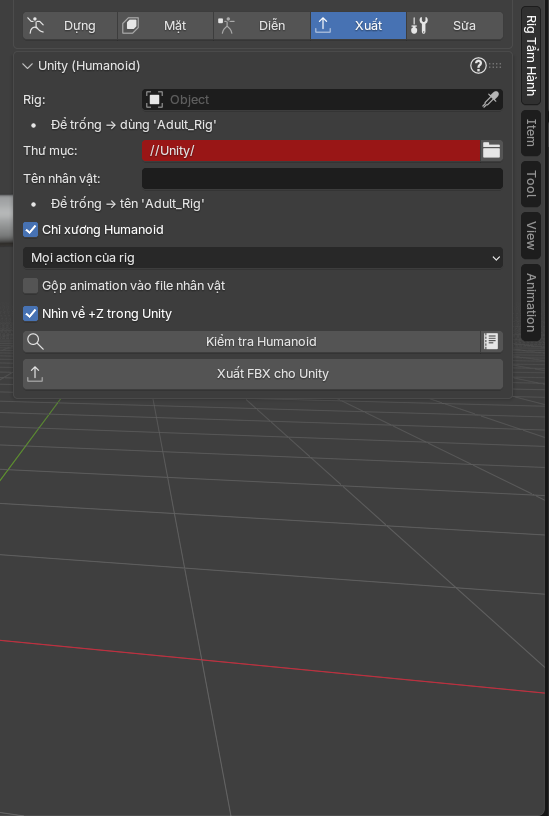
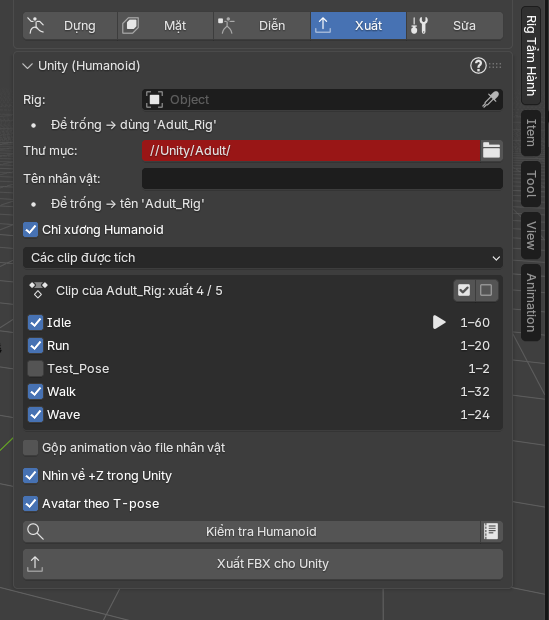
Rig Tẩm Hành 1.27.0: choose which clips go to Unity
The Unity export panel lists every animation clip that has a slot for the
chosen rig (a slot the rig uses, a slot named after it, or a slot whose
channels mostly target its bones), each with a checkbox, frame range and a
marker on the assigned clip, plus tick-all / untick-all. Only ticked clips are
exported, in separate files or combined takes, and the json lists only them.
The choice is stored on each action (Action.srp_unity_export, default on), so
older files export as before. The Humanoid check names skipped clips, and
action slot lookup now prefers the slot the rig itself uses. Adds the
unity_clips test.

diff --git a/unityexport.py b/unityexport.py
@@ -245,16 +245,38 @@ def rig_meshes(arm):
     return skinned, attached
 
 
-def rig_actions(arm):
-    """Action dành cho rig này: phần lớn kênh trỏ vào bone có thật."""
+def rig_clips(arm):
+    """[(action, slot)] -- clip dành cho rig này, đọc theo SLOT của action: slot
+    rig đang / đã dùng, slot trùng tên rig, hoặc slot OBJECT có phần lớn kênh
+    trỏ vào bone có thật của rig. Action chỉ có slot shape key thì bỏ qua."""
     names = {b.name for b in arm.data.bones}
     out = []
     for a in bpy.data.actions:
-        bones = {compat.bone_of(fc.data_path) for fc in compat.action_fcurves(a)}
-        bones.discard(None)
-        if bones and len(bones & names) >= .5 * len(bones):
-            out.append(a)
-    return out
+        hit = None
+        for s in a.slots:
+            if s.target_id_type not in ('OBJECT', 'UNSPECIFIED'):
+                continue
+            users = getattr(s, "users", None)
+            if (users is not None and arm in users()) or s.name_display == arm.name:
+                hit = s
+                break
+            bones = {compat.bone_of(fc.data_path) for fc in compat.action_fcurves(a, s)}
+            bones.discard(None)
+            if hit is None and bones and len(bones & names) >= .5 * len(bones):
+                hit = s
+        if hit is not None:
+            out.append((a, hit))
+    return sorted(out, key=lambda p: p[0].name.lower())
+
+
+def rig_actions(arm):
+    """Action dành cho rig này (xem rig_clips)."""
+    return [a for a, _s in rig_clips(arm)]
+
+
+def picked_actions(arm):
+    """Clip được tích "Xuất" trong danh sách của panel."""
+    return [a for a in rig_actions(arm) if getattr(a, "srp_unity_export", True)]
 
 
 def driven_into(meshes):
@@ -332,14 +354,18 @@ def check(arm):
     for o in attached:
         notes.append("%s gắn vào bone %s -- sẽ skin 100%% vào bone đó" % (o.name, o.parent_bone))
 
-    acts = rig_actions(arm)
+    every = rig_actions(arm)
+    acts = picked_actions(arm)
     for a in acts:
         for fc in compat.action_fcurves(a):
             if fc.data_path.endswith('.scale') and compat.curve_amplitude(fc) > 1e-4:
                 warns.append("%s: có animation scale bone (%s) -- Humanoid bỏ qua scale"
                              % (a.name, compat.bone_of(fc.data_path)))
                 break
-    notes.append("%d action cho rig này: %s" % (len(acts), ", ".join(a.name for a in acts) or "--"))
+    notes.append("%d clip cho rig này, xuất %d: %s" % (len(every), len(acts), ", ".join(a.name for a in acts) or "--"))
+    skip = [a.name for a in every if a not in acts]
+    if skip:
+        notes.append("Bỏ không xuất: " + ", ".join(skip))
     extra = sorted(b.name for b in B if b.use_deform and b.name not in used)
     notes.append("%d bone Humanoid, %d bone thêm (mặt, tai, Palm...) đi theo dạng transform phụ"
                  % (len(m), len(extra)))
@@ -844,7 +870,7 @@ def export(context, arm, folder, name, which='ALL', face_z=True, combine=False,
         raise ValueError("; ".join(errors))
     os.makedirs(folder, exist_ok=True)
     skinned, attached = rig_meshes(arm)
-    acts = rig_actions(arm)
+    acts = picked_actions(arm)
     if which == 'NONE':
         acts = []
     elif which == 'ACTIVE':
@@ -961,7 +987,9 @@ class SRP_UnitySettings(PropertyGroup):
                          description="Để trống thì lấy theo tên rig")
     which: EnumProperty(
         name="Animation",
-        items=(('ALL', "Mọi action của rig", "Mỗi action ra một file <tên>@<action>.fbx"),
+        items=(('ALL', "Các clip được tích",
+                "Chỉ xuất các clip được tích trong danh sách bên dưới -- mỗi clip ra "
+                "một file <tên>@<clip>.fbx (hoặc một take nếu gộp)"),
                ('ACTIVE', "Chỉ action đang gán", ""),
                ('NONE', "Không xuất animation", "Chỉ mô hình + Avatar")),
         default='ALL')
@@ -1073,6 +1101,48 @@ class SRP_OT_unity_export(Operator):
         return {'FINISHED'}
 
 
+class SRP_OT_unity_clips(Operator):
+    """Tích / bỏ tích mọi clip của rig trong danh sách xuất"""
+    bl_idname = "srp.unity_clips"
+    bl_label = "Chọn clip"
+    bl_options = {'REGISTER', 'UNDO'}
+
+    value: BoolProperty(default=True)
+
+    def execute(self, context):
+        arm = _rig(context)
+        if arm is None:
+            return {'CANCELLED'}
+        for a in rig_actions(arm):
+            a.srp_unity_export = self.value
+        return {'FINISHED'}
+
+
+def draw_clips(L, arm):
+    clips = rig_clips(arm)
+    box = L.box()
+    if not clips:
+        box.label(text="Không có clip nào có slot cho %s" % arm.name, icon='INFO')
+        return
+    n = sum(1 for a, _s in clips if a.srp_unity_export)
+    head = box.row(align=True)
+    head.label(text="Clip của %s: xuất %d / %d" % (arm.name, n, len(clips)), icon='ACTION')
+    head.operator("srp.unity_clips", text="", icon='CHECKBOX_HLT').value = True
+    head.operator("srp.unity_clips", text="", icon='CHECKBOX_DEHLT').value = False
+    cur = arm.animation_data.action if arm.animation_data else None
+    col = box.column(align=True)
+    for a, s in clips:
+        row = col.row(align=True)
+        row.prop(a, "srp_unity_export", text=a.name)
+        sub = row.row(align=True)
+        sub.alignment = 'RIGHT'
+        f0, f1 = (int(round(x)) for x in a.frame_range)
+        info = "%d–%d" % (f0, f1)
+        if s.name_display != arm.name:
+            info += " · slot %s" % s.name_display
+        sub.label(text=info, icon='PLAY' if a is cur else 'BLANK1')
+
+
 def draw_unity(L, context):
     st = context.scene.srp_unity
     arm = _rig(context)
@@ -1089,6 +1159,8 @@ def draw_unity(L, context):
         note.label(text="Để trống → tên %r" % default_name(arm), icon='DOT')
     L.prop(st, "only_human")
     L.prop(st, "which", text="")
+    if st.which == 'ALL' and arm is not None:
+        draw_clips(L, arm)
     row = L.row()
     row.enabled = st.which != 'NONE'
     row.prop(st, "combine")
@@ -1104,18 +1176,23 @@ def draw_unity(L, context):
 
 
 CLASSES = (SRP_UnitySettings, SRP_OT_unity_check, SRP_OT_unity_map_edit,
-           SRP_OT_unity_export)
+           SRP_OT_unity_export, SRP_OT_unity_clips)
 
 
 def register_extra():
     bpy.types.Scene.srp_unity = PointerProperty(type=SRP_UnitySettings)
+    # Lưu trên chính action: mở lại file vẫn nhớ clip nào bỏ ra
+    bpy.types.Action.srp_unity_export = BoolProperty(
+        name="Xuất sang Unity", default=True,
+        description="Tích: clip này được xuất khi chọn 'Các clip được tích'")
 
 
 def unregister_extra():
-    try:
-        del bpy.types.Scene.srp_unity
-    except AttributeError:
-        pass
+    for owner, attr in ((bpy.types.Scene, "srp_unity"), (bpy.types.Action, "srp_unity_export")):
+        try:
+            delattr(owner, attr)
+        except AttributeError:
+            pass
 
 
 # ============================================================ script Unity

diff --git a/tests/cases/unity_clips.py b/tests/cases/unity_clips.py
@@ -1,0 +1,77 @@
+"""Xuất Unity: danh sách clip theo slot + ô tích chọn clip. Fixture kid_facekeys.blend. argv: -- outdir"""
+import bpy, sys, os, json
+import addon_utils
+
+OUT = sys.argv[sys.argv.index("--") + 1]
+addon_utils.enable("rig_tam_hanh", default_set=False)
+from rig_tam_hanh import unityexport as UE, compat
+
+ctx = bpy.context
+rig = bpy.data.objects["Kid_Rig.001"]
+body = bpy.data.objects["body"]
+results = []
+
+
+def rep(name, ok, detail=""):
+    results.append(ok)
+    print("[%s] %s %s" % ("ĐẠT" if ok else "HỎNG", name, detail))
+
+
+for a in list(bpy.data.actions):
+    bpy.data.actions.remove(a)
+
+
+def make(name, slot_name, bone, target='OBJECT'):
+    act = bpy.data.actions.new(name)
+    slot = act.slots.new(target, slot_name)
+    bag = compat.action_channelbag(act, slot, create=True)
+    path = 'pose.bones["%s"].rotation_quaternion' % bone if bone else 'location'
+    for i in range(4 if bone else 3):
+        fc = bag.fcurves.new(path, index=i)
+        fc.keyframe_points.insert(1, 1.0 if (bone and i == 0) else 0.0)
+        fc.keyframe_points.insert(12, 0.9 if (bone and i == 0) else 0.1)
+    return act, slot
+
+used, s_used = make("Clip_Used", "Whatever", "Spine")          # slot rig đang dùng
+named, _s = make("Clip_Named", rig.name, None)                 # slot trùng tên rig (kênh object)
+bones, _s = make("Clip_Bones", "Other", "Neck")                # slot lạ nhưng kênh trỏ vào bone rig
+other, _s = make("Clip_Other", "Camera", None)                 # slot của object khác
+anim = rig.animation_data or rig.animation_data_create()
+anim.action = used
+anim.action_slot = s_used
+
+found = [a.name for a, _s in UE.rig_clips(rig)]
+rep("danh sách theo slot", found == ["Clip_Bones", "Clip_Named", "Clip_Used"], str(found))
+rep("mặc định mọi clip được tích", all(a.srp_unity_export for a in bpy.data.actions))
+
+named.srp_unity_export = False
+rep("bỏ tích -> không nằm trong danh sách xuất", [a.name for a in UE.picked_actions(rig)] == ["Clip_Bones", "Clip_Used"])
+
+folder = os.path.join(OUT, "sep")
+files, lines = UE.export(ctx, rig, folder, "Kid", which='ALL', combine=False, only_human=True)
+names = sorted(os.path.basename(f) for f in files if f.endswith(".fbx"))
+rep("chỉ xuất clip được tích (file riêng)", names == ["Kid.fbx", "Kid@Clip_Bones.fbx", "Kid@Clip_Used.fbx"], str(names))
+js = json.load(open(os.path.join(folder, "Kid.humanoid.json"), encoding="utf-8"))
+rep("json chỉ ghi clip được tích", sorted(c["name"] for c in js["clips"]) == ["Clip_Bones", "Clip_Used"])
+
+folder = os.path.join(OUT, "comb")
+files, lines = UE.export(ctx, rig, folder, "Kid", which='ALL', combine=True, only_human=True)
+js = json.load(open(os.path.join(folder, "Kid.humanoid.json"), encoding="utf-8"))
+rep("gộp: chỉ take của clip được tích", sorted(c["name"] for c in js["clips"]) == ["Clip_Bones", "Clip_Used"],
+    str([c["name"] for c in js["clips"]]))
+rep("rig trả lại action đang gán", rig.animation_data.action is used and rig.animation_data.action_slot == s_used)
+
+for a in bpy.data.actions:
+    a.srp_unity_export = False
+folder = os.path.join(OUT, "none")
+files, lines = UE.export(ctx, rig, folder, "Kid", which='ALL', combine=False, only_human=True)
+rep("bỏ tích hết -> chỉ mô hình", sorted(os.path.basename(f) for f in files if f.endswith(".fbx")) == ["Kid.fbx"])
+
+_e, _w, notes, _m = UE.check(rig)
+rep("Kiểm tra Humanoid báo clip bị bỏ", any(n.startswith("Bỏ không xuất") for n in notes))
+
+for a in bpy.data.actions:
+    a.srp_unity_export = True
+r = bpy.ops.srp.unity_clips(value=False)
+rep("nút bỏ tích hết", all(not a.srp_unity_export for a, _s in UE.rig_clips(rig)) and other.srp_unity_export)
+print("TỔNG %d/%d" % (sum(results), len(results)))

diff --git a/tests/run_tests.py b/tests/run_tests.py
@@ -42,6 +42,7 @@ TESTS = [
     ("unity_import", "unity_import.py", None, ["{shared}/unity"], "SMOKE", []),
     ("unity_export_combined", "unity_export.py", "kid_facekeys.blend", ["{shared}/unity_c", "combine"], "SMOKE", []),
     ("unity_import_combined", "unity_import_combined.py", None, ["{shared}/unity_c"], "SMOKE", []),
+    ("unity_clips", "unity_clips.py", "kid_facekeys.blend", ["{out}"], "CHECK", []),
     ("generate", "generate.py", "kid_copy.blend", [], "SMOKE", []),
     ("refsync", "refsync.py", "kid_sync.blend", [], "SMOKE", []),
     ("refsync_add", "refsync_add.py", "kid_sync2.blend", [], "SMOKE", []),

diff --git a/compat.py b/compat.py
@@ -29,6 +29,10 @@ def action_slot_for(action, id_):
     current = getattr(getattr(id_, "animation_data", None), "action_slot", None)
     if current is not None and current in slots:
         return current
+    for slot in slots:
+        users = getattr(slot, "users", None)
+        if users is not None and id_ in users():
+            return slot
 
     pose = getattr(id_, "pose", None)
     if pose is not None:

diff --git a/__init__.py b/__init__.py
@@ -11,7 +11,7 @@ Xem CHANGELOG.md ben canh file nay: ghi doi gi o ban nao, kem SO DO DUOC.
 bl_info = {
     "name": "Rig Tẩm Hành",
     "author": "Chú Pen Tẩm Hành",
-    "version": (1, 26, 0),
+    "version": (1, 27, 0),
     "blender": (5, 0, 0),
     "location": "View3D > N-Panel > Rig Tẩm Hành",
     "description": "Dựng rig từ bộ xương ref hoặc theo nhân vật mẫu, weight, "

diff --git a/CHANGELOG.md b/CHANGELOG.md
@@ -7,6 +7,26 @@ Bài test nằm trong `tests/` của repo (không đi kèm file zip phát hành)
 `tests/README.md`. Các mục cũ nhắc tên bài test thời trước khi có bộ test
 chung -- một số bài đó đã gộp vào `tests/cases/`.
 
+## 1.27.0 — 2026-11-07
+
+**Xuất Unity: chọn clip nào xuất** (`unityexport.rig_clips`, `srp.unity_clips`).
+- Mục animation "Các clip được tích" (thay "Mọi action của rig") hiện danh sách
+  clip của rig kèm ô tích, khoảng frame, dấu ▶ ở clip đang gán, nút tích hết /
+  bỏ hết, và "xuất N / M".
+- Danh sách đọc theo SLOT của action: slot rig đang / đã dùng (`slot.users()`),
+  slot trùng tên rig, hoặc slot OBJECT có từ một nửa kênh trỏ vào bone có thật
+  của rig. Action chỉ có slot shape key, hay slot của object khác, không hiện.
+  Trước đây chỉ đoán theo tên bone trong toàn action.
+- Ô tích là thuộc tính của chính action (`Action.srp_unity_export`, mặc định
+  bật) -- lưu trong file, mở lại vẫn nhớ; file cũ xuất y như trước.
+- `compat.action_slot_for` ưu tiên slot mà chính rig đang dùng, nên lúc xuất
+  gán đúng slot đã hiện trong danh sách.
+- "Kiểm tra Humanoid" ghi số clip xuất / tổng và tên clip bị bỏ.
+Bài `unity_clips` (10/10): 4 action (slot đang dùng, slot trùng tên, slot lạ có
+kênh bone, slot object khác) -> danh sách đúng 3; bỏ tích 1 -> file riêng chỉ
+ra 2 clip, json và chế độ gộp cũng 2; bỏ hết -> chỉ mô hình; rig được trả lại
+đúng action + slot đang gán.
+
 ## 1.26.0 — 2026-11-07
 
 **Mesh phụ bám da** (`followkeys.py`, nút "Mesh phụ bám da" ở khu Mặt).
